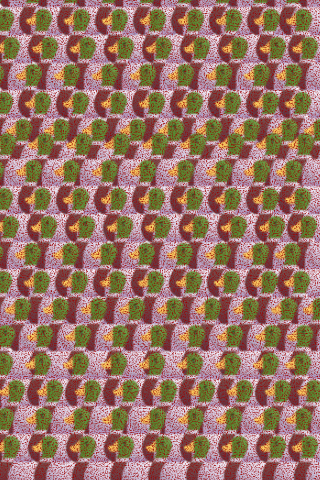
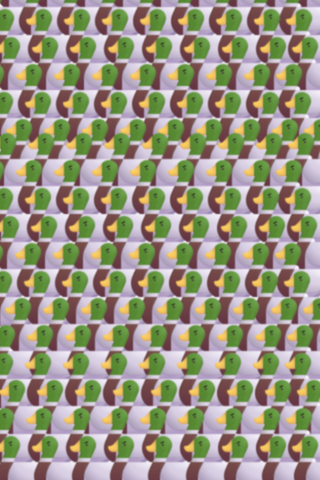
screen

diff --git a/src/gameObjects/RoundReward.js b/src/gameObjects/RoundReward.js
@@ -74,34 +74,34 @@ export default class RoundReward extends Phaser.GameObjects.GameObject {
 
         this.blackBackground = this.scene.add.rectangle(0, 0, 320, 480, '#FFFFFF').setOrigin(0).setDepth(110).setAlpha(this.shown / 2);
 
-        this.firstChoice.image = this.scene.add.image(this.scene.scale.width / 2 - 75,
-            this.scene.scale.height / 2, this.choices[0][0].imagePath).setOrigin(0.5).setDepth(120).setAlpha(this.shown);
+        this.firstChoice.image = this.scene.add.image(this.scene.scale.width / 2,
+           ( this.scene.scale.height / 2 ) - 100, this.choices[0][0].imagePath).setOrigin(0.5).setDepth(120).setAlpha(this.shown);
         this.firstChoice.title = this.scene.add.text(this.firstChoice.image.x,
-            this.firstChoice.image.y + 24, this.choices[0][0].title, {
-            fontFamily: 'Arial', fontSize: 10, color: '#ffffff',
+            this.firstChoice.image.y + 26, this.choices[0][0].title, {
+            fontFamily: 'Arial', fontSize: 16, color: '#ffffff',
             stroke: '#000000', strokeThickness: 8,
             align: 'center'
         }).setOrigin(0.5).setDepth(120).setAlpha(this.shown);
         this.firstChoice.description = this.scene.add.text(this.firstChoice.title.x,
-            this.firstChoice.title.y + 20, this.choices[0][0].description, {
-            fontFamily: 'Arial', fontSize: 8, color: '#ffffff',
-            stroke: '#000000', strokeThickness: 1,
+            this.firstChoice.title.y + 24, this.choices[0][0].description, {
+            fontFamily: 'Arial', fontSize: 12, color: '#ffffff',
+            stroke: '#000000', strokeThickness: 2,
             align: 'center'
         }).setOrigin(0.5).setDepth(120).setAlpha(this.shown);
 
 
-        this.secondChoice.image = this.scene.add.image(this.scene.scale.width / 2 + 75,
-            this.scene.scale.height / 2, this.choices[0][1].imagePath).setOrigin(0.5).setDepth(120).setAlpha(this.shown);
+        this.secondChoice.image = this.scene.add.image(this.scene.scale.width / 2,
+            this.scene.scale.height / 2 + 25, this.choices[0][1].imagePath).setOrigin(0.5).setDepth(120).setAlpha(this.shown);
         this.secondChoice.title = this.scene.add.text(this.secondChoice.image.x,
-            this.secondChoice.image.y + 24, this.choices[0][1].title, {
-            fontFamily: 'Arial', fontSize: 10, color: '#ffffff',
+            this.secondChoice.image.y + 26, this.choices[0][1].title, {
+            fontFamily: 'Arial', fontSize: 16, color: '#ffffff',
             stroke: '#000000', strokeThickness: 8,
             align: 'center'
         }).setOrigin(0.5).setDepth(120).setAlpha(this.shown);
         this.secondChoice.description = this.scene.add.text(this.secondChoice.title.x,
-            this.secondChoice.title.y + 20, this.choices[0][1].description, {
-            fontFamily: 'Arial', fontSize: 8, color: '#ffffff',
-            stroke: '#000000', strokeThickness: 1,
+            this.secondChoice.title.y + 24, this.choices[0][1].description, {
+            fontFamily: 'Arial', fontSize: 12, color: '#ffffff',
+            stroke: '#000000', strokeThickness: 2,
             align: 'center'
         }).setOrigin(0.5).setDepth(120).setAlpha(this.shown);
 

diff --git a/src/scenes/Start.js b/src/scenes/Start.js
@@ -7,6 +7,8 @@ export class Start extends Phaser.Scene {
     heads = [];
 
     music;
+
+    angleToInvertRotation = 30;
     constructor() {
         super('Start');
 
@@ -28,10 +30,13 @@ export class Start extends Phaser.Scene {
         this.music.play();
 
 
-        this.heads = [this.add.image(50, 480, ASSETS.image.tete1.key).setOrigin(0.5, 1).setDepth(20),
-        this.add.image(100, 480, ASSETS.image.tete2.key).setOrigin(0.5, 1).setDepth(20),
-        this.add.image(200, 480, ASSETS.image.tete3.key).setOrigin(0.5, 1).setDepth(20),
-        this.add.image(250, 480, ASSETS.image.tete4.key).setOrigin(0.5, 1).setDepth(20)];
+        this.heads = [{image: this.add.image(22+30, 36+50, ASSETS.image.tete1.key).setOrigin(0.5).setDepth(20), rotation: 1},
+        {image: this.add.image(226+30, 32+50, ASSETS.image.tete2.key).setOrigin(0.5).setDepth(20), rotation: -1},
+        {image: this.add.image(262+30, 163+50, ASSETS.image.tete3.key).setOrigin(0.5).setDepth(20), rotation: 1},
+        {image: this.add.image(8+30, 183+50, ASSETS.image.tete4.key).setOrigin(0.5).setDepth(20), rotation: -1},
+        {image: this.add.image(49+30, 338+50, ASSETS.image.tete5.key).setOrigin(0.5).setDepth(20), rotation: 1},
+        {image: this.add.image(191+60, 328+70, ASSETS.image.tete6.key).setOrigin(0.5).setDepth(20), rotation:-1}
+        ];
         // this.background = this.add.tileSprite(640, 360, 1280, 720, 'background');
 
         // const logo = this.add.image(640, 200, 'logo');
@@ -58,9 +63,17 @@ export class Start extends Phaser.Scene {
     }
 
     update() {
+
+        this.heads.forEach((element) => {
+            element.image.angle +=  (0.75 * element.rotation);
+            if (element.image.angle * element.rotation  > this.angleToInvertRotation){
+                element.rotation *= -1;
+            }
+        })
+
+
         this.cursor = this.input.activePointer;
         if (this.cursor.isDown){
-        this.music.stop();
         this.scene.start('Game');
         } 
     }

diff --git a/src/assets.js b/src/assets.js
@@ -69,29 +69,43 @@ export default {
         tete1: {
             key: 'tete1',
             args: ['assets/TitleScreen/Tete1.png', {
-                frameWidth: 97,
-                frameHeight: 146,
+                frameWidth: 69,
+                frameHeight: 83,
             }]
         },
         tete2: {
             key: 'tete2',
             args: ['assets/TitleScreen/Tete2.png', {
-                frameWidth: 151,
-                frameHeight: 168,
+                frameWidth: 79,
+                frameHeight: 88,
             }]
         },
         tete3: {
             key: 'tete3',
             args: ['assets/TitleScreen/Tete3.png', {
-                frameWidth: 110,
-                frameHeight: 148,
+                frameWidth: 53,
+                frameHeight: 71,
             }]
         },
         tete4: {
             key: 'tete4',
             args: ['assets/TitleScreen/Tete4.png', {
-                frameWidth: 98,
-                frameHeight: 171,
+                frameWidth: 55,
+                frameHeight: 73,
+            }]
+        },
+        tete5: {
+            key: 'tete5',
+            args: ['assets/TitleScreen/Tete5.png', {
+                frameWidth: 49,
+                frameHeight: 71,
+            }]
+        },
+        tete6: {
+            key: 'tete6',
+            args: ['assets/TitleScreen/Tete6.png', {
+                frameWidth: 66,
+                frameHeight: 81,
             }]
         },
     },
